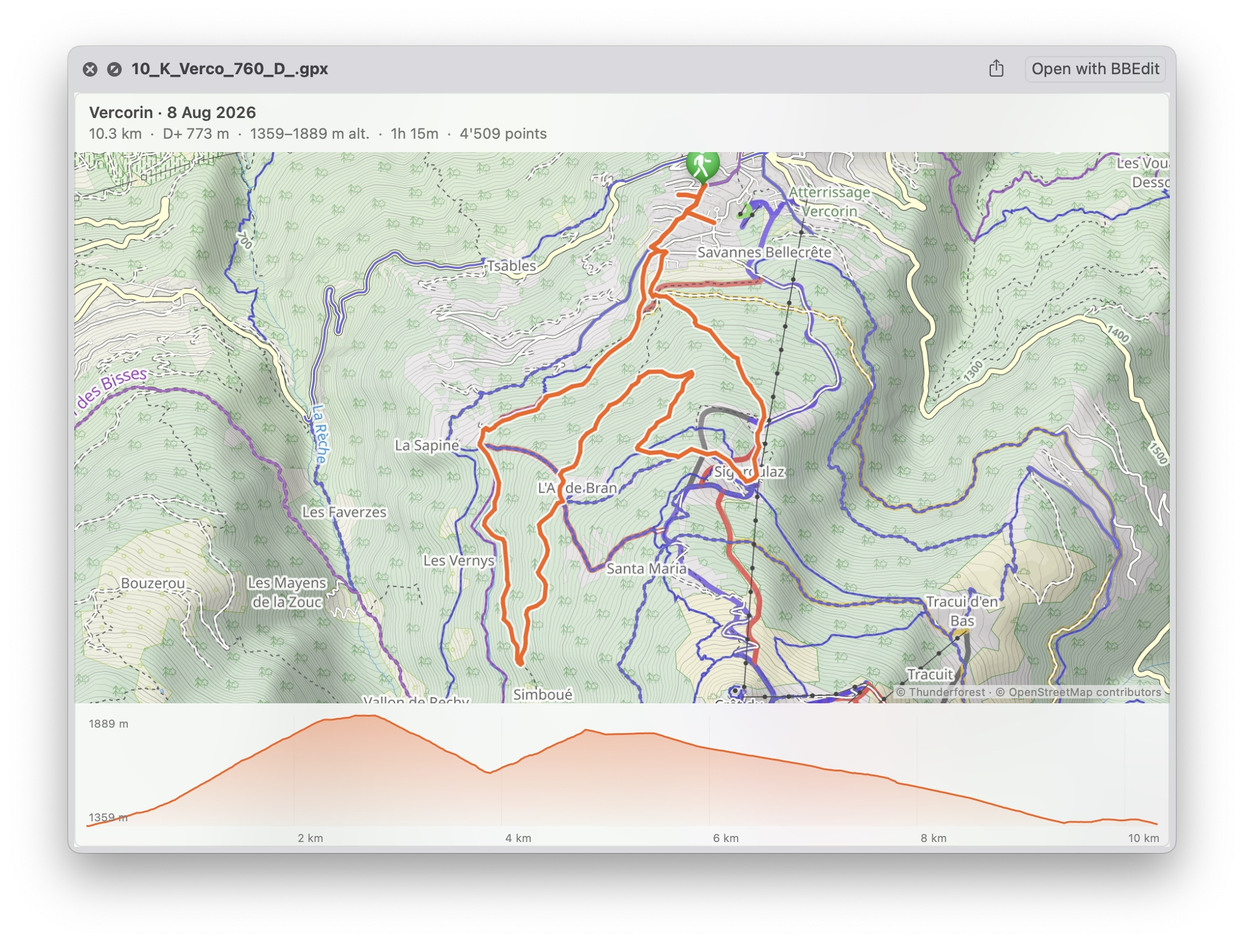
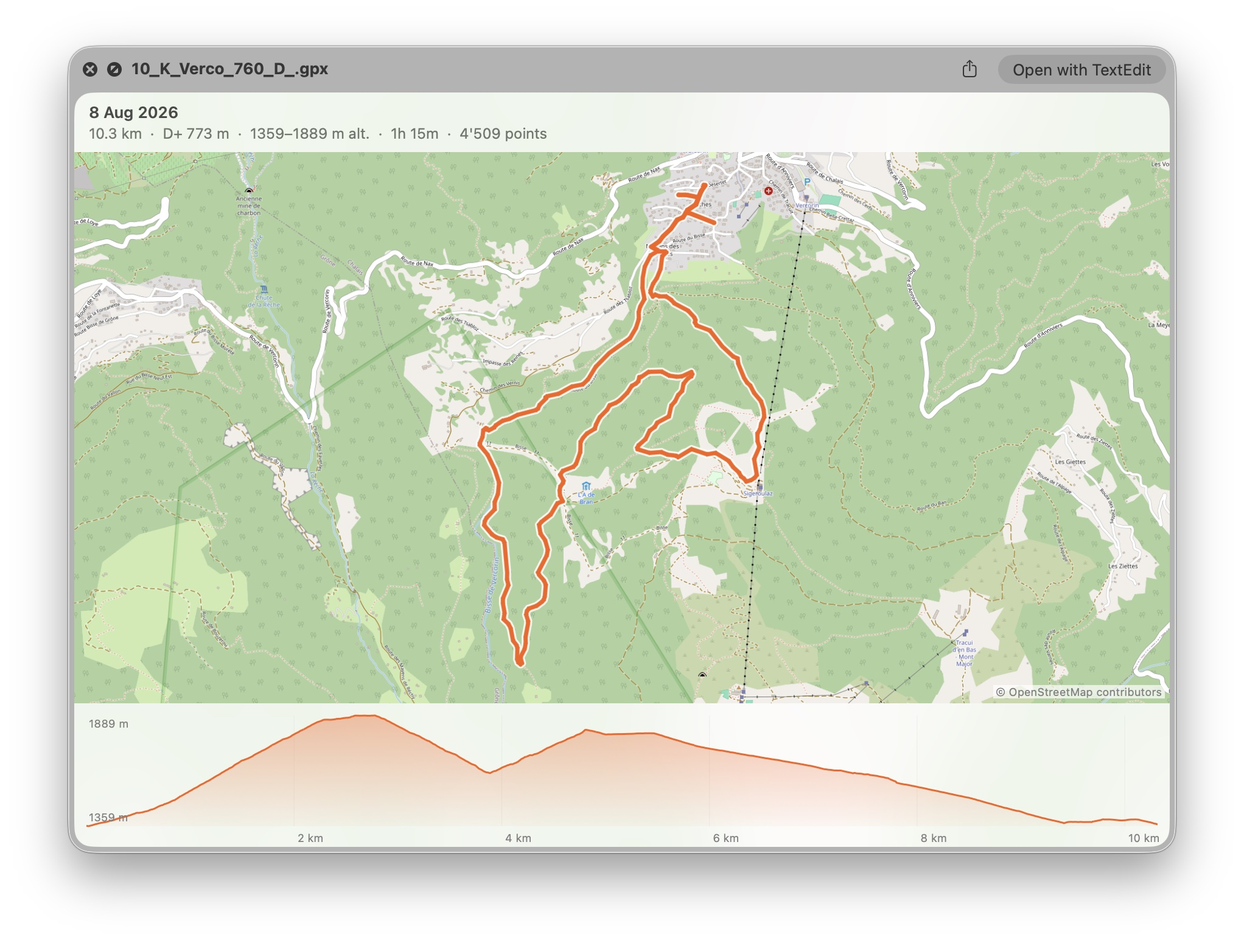
README: describe fork changes and show OSM screenshot

diff --git a/README.md b/README.md
@@ -14,6 +14,15 @@ extension** (`QLPreviewingController` + MapKit) and a **thumbnail extension**
 (`QLThumbnailProvider`). No Xcode project — everything is compiled with `swiftc`
 and assembled by the build script.
 
+## Changes in this fork
+
+This fork of [nst/QuickGPX](https://github.com/nst/QuickGPX) changes how the preview uses the network:
+
+- The base map uses OpenStreetMap tiles from `tile.openstreetmap.org`. The upstream version uses Thunderforest Outdoors tiles with the API key of the upstream author.
+- The preview does not send the start point of a track to OSM Nominatim. The title shows the date, the track name, or the file name.
+
+The OSM tiles are 256 px, so the map is less sharp on Retina displays.
+
 ## Build & install
 
 ```sh
